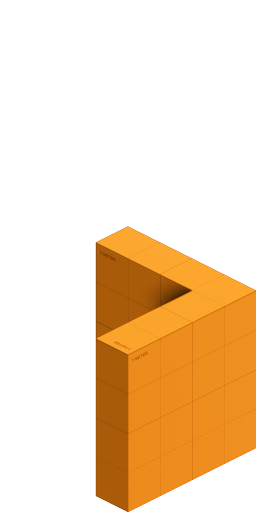
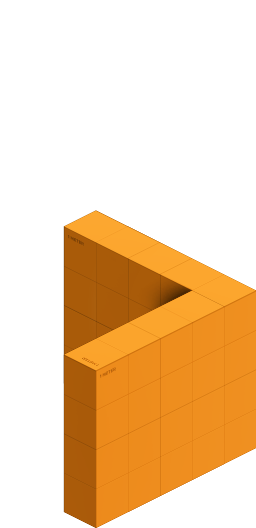
All corner assets complete: SE/NW 320×512, SW/NE 256×528 with corrected texture_origin per direction

Changed region(s): [[0.2188, 0.375, 1.0, 1.0]]

diff --git a/fix_sw_ne_corners.py b/fix_sw_ne_corners.py
@@ -1,0 +1,104 @@
+#!/usr/bin/env python3
+"""
+Update corner_*_SW and corner_*_NE to 256×528 and correct origins.
+Direct approach - find each asset and update backwards.
+"""
+
+import re
+from pathlib import Path
+
+tileset_path = Path("/Volumes/Expansion/----- PESSOAL -----/PYTHON/INFILTRAITOR/godot/resources/tilesets/tileset_blocks.tres")
+
+with open(tileset_path, 'r') as f:
+    content = f.read()
+
+original = content
+changes = 0
+
+# For each asset, find it and update the texture_region_size and texture_origin BEFORE it
+assets_sw_ne = {
+    "columnCorner_SW": (32, -392),
+    "columnCorner_NE": (-32, -392),
+    "sloperCornerInner_SW": (32, -392),
+    "sloperCornerInner_NE": (-32, -392),
+    "sloperCornerOuter_SW": (32, -392),
+    "sloperCornerOuter_NE": (-32, -392),
+    "stairsCornerInner_SW": (32, -392),
+    "stairsCornerInner_NE": (-32, -392),
+    "stairsCornerOuter_SW": (32, -392),
+    "stairsCornerOuter_NE": (-32, -392),
+    "stairsOpenCornerInner_SW": (32, -392),
+    "stairsOpenCornerInner_NE": (-32, -392),
+    "stairsOpenCornerOuter_SW": (32, -392),
+    "stairsOpenCornerOuter_NE": (-32, -392),
+    "wallCornerHalf_SW": (32, -392),
+    "wallCornerHalf_NE": (-32, -392),
+}
+
+for asset, (origin_x, origin_y) in assets_sw_ne.items():
+    pattern = f'custom_data_0 = "{asset}"'
+    pos = content.find(pattern)
+    
+    if pos > 0:
+        # Find the texture_region_size line before this asset
+        before = content[:pos]
+        
+        # Find last occurrence of texture_region_size = Vector2i(256, 512) before this asset
+        size_search = 'texture_region_size = Vector2i(256, 512)'
+        last_size_pos = before.rfind(size_search)
+        
+        if last_size_pos >= 0:
+            # Replace this specific occurrence
+            content = (content[:last_size_pos] + 
+                      'texture_region_size = Vector2i(256, 528)' + 
+                      content[last_size_pos + len(size_search):])
+            print(f"✓ {asset}: texture_region_size 256×512 → 256×528")
+            changes += 1
+
+# Now update texture_origin for each asset
+for asset, (origin_x, origin_y) in assets_sw_ne.items():
+    pattern = f'custom_data_0 = "{asset}"'
+    match = re.search(pattern, content)
+    
+    if match:
+        pos = match.start()
+        # Look backwards for texture_origin
+        before = content[:pos]
+        
+        # Find the last texture_origin before this asset
+        origin_patterns = [
+            r'texture_origin = Vector2i\(0, -368\)',
+            r'texture_origin = Vector2i\(-16, -392\)',
+            r'texture_origin = Vector2i\(0, -384\)',
+            r'texture_origin = Vector2i\(-32, -384\)',
+            r'texture_origin = Vector2i\(32, -384\)',
+            r'texture_origin = Vector2i\([^)]+\)',
+        ]
+        
+        # Find any texture_origin before this asset
+        last_origin_pos = -1
+        for pattern_str in origin_patterns:
+            matches = list(re.finditer(pattern_str, before))
+            if matches:
+                last_match = matches[-1]
+                if last_match.start() > last_origin_pos:
+                    last_origin_pos = last_match.start()
+        
+        if last_origin_pos >= 0:
+            # Find the full match at that position
+            after = content[last_origin_pos:]
+            origin_match = re.match(r'texture_origin = Vector2i\([^)]+\)', after)
+            if origin_match:
+                old_origin = origin_match.group(0)
+                new_origin = f'texture_origin = Vector2i({origin_x}, {origin_y})'
+                content = (content[:last_origin_pos] + new_origin + 
+                          content[last_origin_pos + len(old_origin):])
+                print(f"✓ {asset}: texture_origin → ({origin_x}, {origin_y})")
+                changes += 1
+
+if content != original:
+    with open(tileset_path, 'w') as f:
+        f.write(content)
+    print(f"\n✅ Updated {changes} items")
+else:
+    print("⚠  No changes")

diff --git a/update_corners_sw_ne.py b/update_corners_sw_ne.py
@@ -1,0 +1,75 @@
+#!/usr/bin/env python3
+"""
+Update all corner_*_SW and corner_*_NE assets to match wallCorner pattern:
+- texture_region_size: 256×528 (height 512 → 528)
+- SW: texture_origin → (32, -392)
+- NE: texture_origin → (-32, -392)
+"""
+
+import re
+from pathlib import Path
+
+tileset_path = Path("/Volumes/Expansion/----- PESSOAL -----/PYTHON/INFILTRAITOR/godot/resources/tilesets/tileset_blocks.tres")
+
+with open(tileset_path, 'r') as f:
+    lines = f.readlines()
+
+# Map of assets to their new origins
+updates = {
+    "columnCorner_SW": (32, -392),
+    "columnCorner_NE": (-32, -392),
+    "sloperCornerInner_SW": (32, -392),
+    "sloperCornerInner_NE": (-32, -392),
+    "sloperCornerOuter_SW": (32, -392),
+    "sloperCornerOuter_NE": (-32, -392),
+    "stairsCornerInner_SW": (32, -392),
+    "stairsCornerInner_NE": (-32, -392),
+    "stairsCornerOuter_SW": (32, -392),
+    "stairsCornerOuter_NE": (-32, -392),
+    "stairsOpenCornerInner_SW": (32, -392),
+    "stairsOpenCornerInner_NE": (-32, -392),
+    "stairsOpenCornerOuter_SW": (32, -392),
+    "stairsOpenCornerOuter_NE": (-32, -392),
+    "wallCornerHalf_SW": (32, -392),
+    "wallCornerHalf_NE": (-32, -392),
+}
+
+changes = 0
+current_asset = None
+
+i = 0
+while i < len(lines):
+    # Track current asset
+    if 'custom_data_0 = "' in lines[i]:
+        match = re.search(r'custom_data_0 = "([^"]+)"', lines[i])
+        if match:
+            current_asset = match.group(1)
+    
+    # If this is a texture_region_size line and we're in an asset to update
+    if current_asset and current_asset in updates:
+        if 'texture_region_size = Vector2i(256, 512)' in lines[i]:
+            lines[i] = lines[i].replace(
+                'Vector2i(256, 512)',
+                'Vector2i(256, 528)'
+            )
+            print(f"✓ {current_asset}: texture_region_size 256×512 → 256×528")
+            changes += 1
+    
+    # If this is a texture_origin line and we're in an asset to update
+    if current_asset and current_asset in updates:
+        if 'texture_origin = Vector2i(' in lines[i]:
+            new_origin = updates[current_asset]
+            lines[i] = re.sub(
+                r'texture_origin = Vector2i\([^)]+\)',
+                f'texture_origin = Vector2i({new_origin[0]}, {new_origin[1]})',
+                lines[i]
+            )
+            print(f"✓ {current_asset}: texture_origin → ({new_origin[0]}, {new_origin[1]})")
+            current_asset = None  # Reset
+    
+    i += 1
+
+with open(tileset_path, 'w') as f:
+    f.writelines(lines)
+
+print(f"\n✅ Updated corner assets SW/NE")
